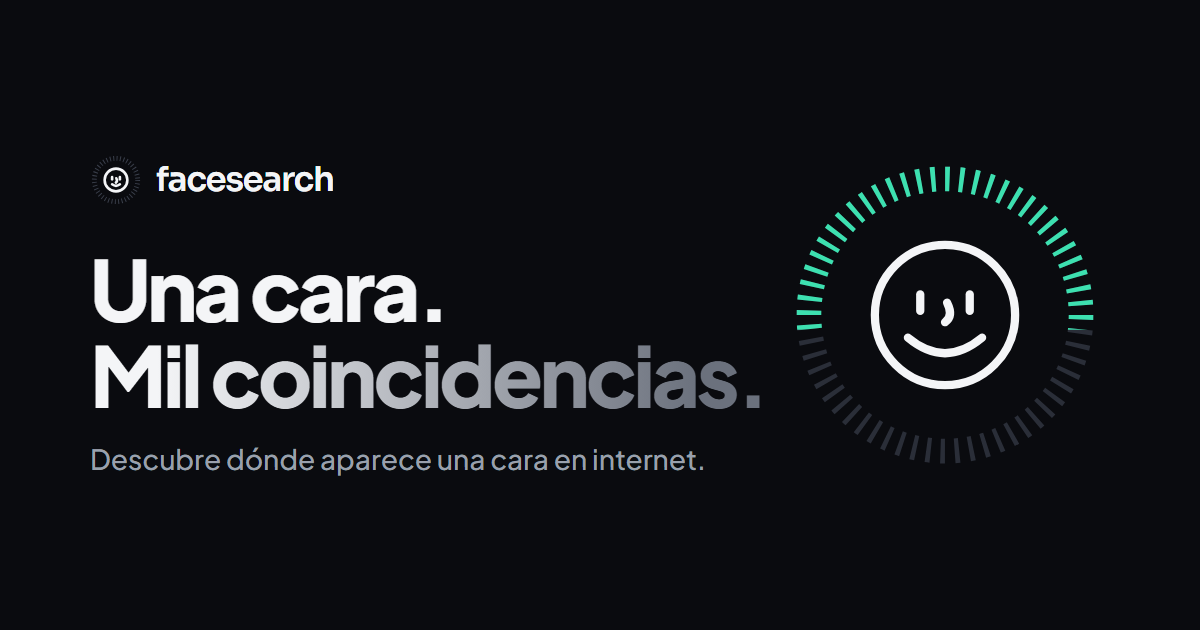
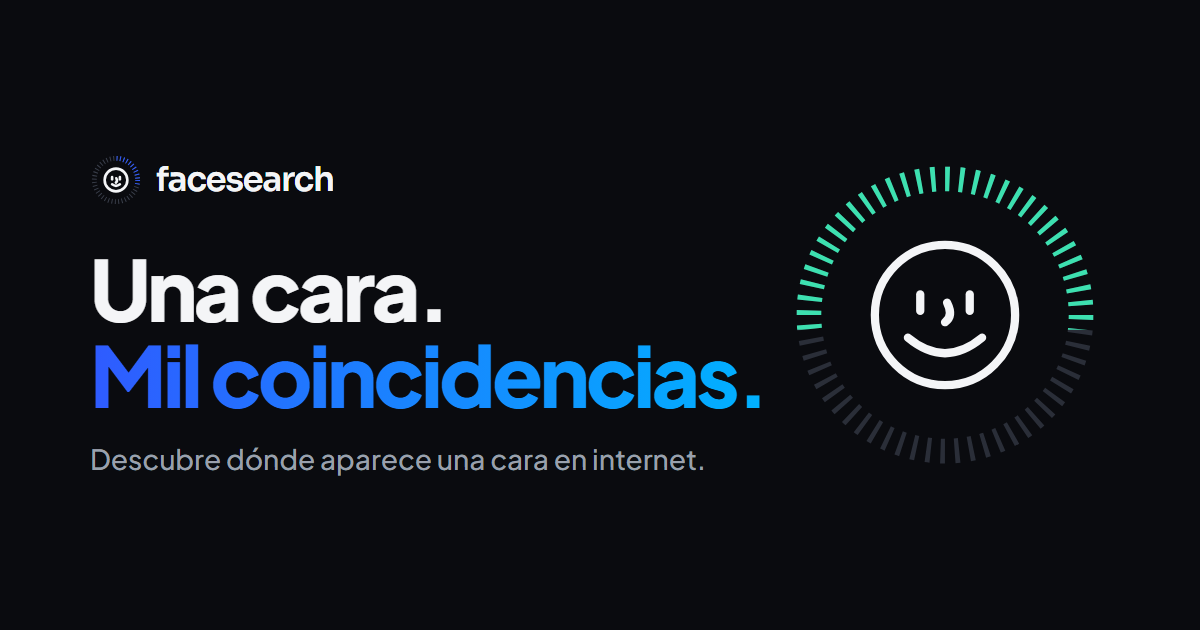
feat: electric blue brand accent (green kept only for face scanning)

Changed region(s): [[0.0617, 0.5429, 0.6475, 0.6635]]

diff --git a/index.html b/index.html
@@ -13,32 +13,32 @@
 <meta property="og:image" content="https://bralexmir95.github.io/facesearch-camara-demo/og.png">
 <meta property="og:image:width" content="1200"><meta property="og:image:height" content="630">
 <meta name="twitter:card" content="summary_large_image">
-<meta name="theme-color" content="#0B0C10">
+<meta name="theme-color" content="#2F5BFF">
 <link rel="icon" href="favicon.svg" type="image/svg+xml">
 <link rel="preconnect" href="https://fonts.googleapis.com">
 <link rel="preconnect" href="https://fonts.gstatic.com" crossorigin>
 <link href="https://fonts.googleapis.com/css2?family=Plus+Jakarta+Sans:wght@400;500;600;700;800&family=Sora:wght@600;700&display=swap" rel="stylesheet">
 <style>
-:root{--bg:#F6F7F9;--surface:#FFFFFF;--surface2:#F0F1F4;--border:#E5E7EB;--text:#0B0C10;--muted:#5B616E;--btn:#0B0C10;--btnText:#FFFFFF;--hl:#9AA0AC;--mint:#19C99A;--mintText:#047857;--mintTint:#E6F8F1;--mintBorder:#BDEFD9;--mintHead:#0E9F76;--tick:#DADDE3;--drop:#D5D9E0;--band:#0B0C10;--scrim:rgba(11,12,16,.45);--shadow:0 1px 2px rgba(11,12,16,.04),0 12px 40px rgba(11,12,16,.06)}
-:root[data-theme="dark"]{--bg:#0A0B0F;--surface:#13151B;--surface2:#1A1D25;--border:#262A33;--text:#F4F5F7;--muted:#9AA0AC;--btn:#F4F5F7;--btnText:#0A0B0F;--hl:#6B717D;--mint:#3DE0B0;--mintText:#3DE0B0;--mintTint:#10261F;--mintBorder:#1C4A3C;--mintHead:#3DE0B0;--tick:#2A2E38;--drop:#2E323C;--band:#1A1D25;--scrim:rgba(0,0,0,.65);--shadow:0 12px 40px rgba(0,0,0,.45)}
+:root{--bg:#F6F7F9;--surface:#FFFFFF;--surface2:#F0F1F4;--border:#E5E7EB;--text:#0B0C10;--muted:#5B616E;--btn:#0B0C10;--btnText:#FFFFFF;--hl:#9AA0AC;--acc:#2F5BFF;--acc2:#00B2FF;--accText:#FFFFFF;--accSoft:#E8EEFF;--accInk:#1E44E0;--mint:#19C99A;--mintText:#047857;--mintTint:#E6F8F1;--mintBorder:#BDEFD9;--mintHead:#0E9F76;--tick:#DADDE3;--drop:#D5D9E0;--band:#0B0C10;--scrim:rgba(11,12,16,.45);--shadow:0 1px 2px rgba(11,12,16,.04),0 12px 40px rgba(11,12,16,.06)}
+:root[data-theme="dark"]{--bg:#0A0B0F;--surface:#13151B;--surface2:#1A1D25;--border:#262A33;--text:#F4F5F7;--muted:#9AA0AC;--btn:#F4F5F7;--btnText:#0A0B0F;--hl:#6B717D;--acc:#2F5BFF;--acc2:#00B2FF;--accText:#FFFFFF;--accSoft:#141C3A;--accInk:#8FA9FF;--mint:#3DE0B0;--mintText:#3DE0B0;--mintTint:#10261F;--mintBorder:#1C4A3C;--mintHead:#3DE0B0;--tick:#2A2E38;--drop:#2E323C;--band:#1A1D25;--scrim:rgba(0,0,0,.65);--shadow:0 12px 40px rgba(0,0,0,.45)}
 *{box-sizing:border-box}
 html{scroll-behavior:smooth}
 body{margin:0;background:var(--bg);color:var(--text);font-family:'Plus Jakarta Sans',system-ui,sans-serif;-webkit-font-smoothing:antialiased}
-a{color:var(--text);text-decoration:none}a:hover{color:var(--muted)}
+a{color:var(--text);text-decoration:none}a:hover{color:var(--accInk)}
 button{font-family:inherit}
-:focus-visible{outline:3px solid var(--text);outline-offset:2px}
+:focus-visible{outline:3px solid var(--acc);outline-offset:2px}
 .wrap{max-width:1180px;margin:0 auto;padding-left:24px;padding-right:24px}
 .hidden{display:none!important}
 .sr{position:absolute;width:1px;height:1px;overflow:hidden;clip:rect(0 0 0 0);white-space:nowrap}
-.proto{background:var(--surface2);color:var(--muted);font-size:13px;font-weight:600;text-align:center;padding:8px 16px}
+.proto{background:var(--accSoft);color:var(--accInk);font-size:13px;font-weight:600;text-align:center;padding:8px 16px}
 .b1,.b2{height:48px;padding:0 20px;border-radius:14px;font:700 15px 'Plus Jakarta Sans',sans-serif;display:inline-flex;align-items:center;justify-content:center;gap:8px;cursor:pointer;text-decoration:none;white-space:nowrap}
-.b1{border:0;background:var(--btn);color:var(--btnText)}.b1:hover{color:var(--btnText);opacity:.9}
+.b1{border:0;background:var(--acc);color:var(--accText)}.b1:hover{color:var(--accText);filter:brightness(1.08)}
 .b2{border:1px solid var(--border);background:var(--surface);color:var(--text);font-weight:600}
 .icon-btn{width:44px;height:44px;border:1px solid var(--border);border-radius:12px;background:var(--surface);color:var(--text);display:inline-flex;align-items:center;justify-content:center;cursor:pointer}
 .muted{color:var(--muted)}
 .logo{display:flex;align-items:center;gap:10px}
 .logo span{font-family:'Sora',sans-serif;font-size:21px;font-weight:600;letter-spacing:-.04em}
-.lt{stroke:var(--tick)}.lm{stroke:var(--mint)}.lx{stroke:var(--text)}
+.lt{stroke:var(--tick)}.lm{stroke:var(--mint)}.lx{stroke:var(--text)}.la{stroke:var(--acc)}
 
 /* Cabecera */
 header.top{background:var(--surface);border-bottom:1px solid var(--border);position:sticky;top:0;z-index:20}
@@ -56,12 +56,12 @@ nav.main a:hover{color:var(--text);background:var(--surface2)}
 /* Titular */
 .hero{padding-top:64px;display:flex;flex-direction:column;align-items:center;text-align:center;gap:18px}
 .hero h1{margin:0;font-size:clamp(40px,6vw,72px);line-height:1.04;font-weight:800;letter-spacing:-.04em}
-.hero h1 .h1b{background:linear-gradient(90deg,var(--text) 10%,var(--hl) 90%);-webkit-background-clip:text;background-clip:text;color:transparent}
+.hero h1 .h1b{background:linear-gradient(90deg,var(--acc),var(--acc2));-webkit-background-clip:text;background-clip:text;color:transparent}
 .hero p{margin:0;max-width:600px;font-size:18px;line-height:1.55;color:var(--muted)}
 .chips{display:flex;flex-wrap:wrap;justify-content:center;gap:8px;margin-top:4px}
 .chip{padding:8px 14px;border-radius:999px;background:var(--surface);border:1px solid var(--border);font-size:13px;font-weight:600;color:var(--muted)}
-.chip.g{background:var(--btn);border-color:var(--btn);color:var(--btnText);font-weight:700}
-.chip.g:hover{color:var(--btnText);opacity:.9}
+.chip.g{background:var(--accSoft);border-color:var(--accSoft);color:var(--accInk);font-weight:700}
+.chip.g:hover{color:var(--accInk);border-color:var(--acc)}
 
 /* Buscador + panel */
 .search{padding-top:40px;padding-bottom:72px;display:grid;grid-template-columns:repeat(auto-fit,minmax(min(340px,100%),1fr));gap:24px}
@@ -100,7 +100,7 @@ nav.main a:hover{color:var(--text);background:var(--surface2)}
 .tabs button[aria-selected="true"]{background:var(--surface);color:var(--text);font-weight:700;box-shadow:0 1px 3px rgba(0,0,0,.12)}
 .list{display:flex;flex-direction:column;gap:10px}
 .step{padding:16px;border-radius:16px;background:var(--surface2);display:flex;gap:14px;align-items:flex-start;text-align:left}
-.step b{flex:none;width:34px;height:34px;border-radius:10px;background:var(--btn);color:var(--btnText);display:flex;align-items:center;justify-content:center}
+.step b{flex:none;width:34px;height:34px;border-radius:10px;background:var(--acc);color:var(--accText);display:flex;align-items:center;justify-content:center}
 .step strong{display:block;font-size:16px}.step span{font-size:14px;line-height:1.5;color:var(--muted)}
 .recent{padding:12px;border-radius:16px;border:1px solid var(--border);display:flex;align-items:center;gap:14px;text-align:left}
 .recent .av{flex:none;width:52px;height:52px;border-radius:14px;background:var(--surface2);display:flex;align-items:center;justify-content:center}
@@ -108,7 +108,7 @@ nav.main a:hover{color:var(--text);background:var(--surface2)}
 .recent .when{font-size:13px;color:var(--muted)}
 .recent .m{flex:none;padding:5px 10px;border-radius:999px;background:var(--surface2);color:var(--text);font-size:12px;font-weight:700}
 .recent button{flex:none;width:40px;height:40px;border:0;border-radius:12px;background:var(--surface2);color:var(--text);display:flex;align-items:center;justify-content:center;cursor:pointer}
-.gnote{margin-top:auto;padding:14px 16px;border-radius:16px;background:var(--surface2);color:var(--text);display:flex;align-items:center;gap:12px;font-size:14px;font-weight:600}
+.gnote{margin-top:auto;padding:14px 16px;border-radius:16px;background:var(--accSoft);color:var(--accInk);display:flex;align-items:center;gap:12px;font-size:14px;font-weight:600}
 .gnote svg{flex:none}
 
 /* Secciones */
@@ -117,7 +117,7 @@ section.band{background:var(--surface);border-top:1px solid var(--border);border
 .sec h2{margin:0;font-size:32px;font-weight:800;letter-spacing:-.03em}
 .center{display:flex;flex-direction:column;align-items:center;gap:10px;text-align:center}
 .center p{margin:0;max-width:580px;font-size:16px;line-height:1.55;color:var(--muted)}
-.more{font-size:14px;font-weight:700;color:var(--text);text-decoration:underline;text-underline-offset:4px}
+.more{font-size:14px;font-weight:700;color:var(--accInk);text-decoration:underline;text-underline-offset:4px}
 .cols{display:grid;grid-template-columns:repeat(auto-fit,minmax(min(240px,100%),1fr));gap:18px}
 .box{padding:24px;border-radius:20px;display:flex;flex-direction:column;gap:8px}
 .box strong{font-size:17px}.box span{font-size:14px;line-height:1.55;color:var(--muted)}
@@ -136,10 +136,10 @@ section.band{background:var(--surface);border-top:1px solid var(--border);border
 .price p{margin:10px 0 0;font-size:15px;color:#C3C7D0}
 .cur{margin-top:14px;display:flex;gap:6px}
 .cur button{height:36px;padding:0 14px;border:1px solid #3A3F4B;border-radius:999px;background:transparent;color:#C3C7D0;font-weight:600;font-size:13px;cursor:pointer}
-.cur button[aria-checked="true"]{border-color:#F4F5F7;background:#F4F5F7;color:#0A0B0F;font-weight:700}
+.cur button[aria-checked="true"]{border-color:var(--acc);background:var(--acc);color:#FFFFFF;font-weight:700}
 .amount{display:flex;align-items:center;gap:20px;flex-wrap:wrap}
 .amount b{font-size:44px;font-weight:800;letter-spacing:-.03em}
-.amount a{height:48px;padding:0 22px;border-radius:14px;background:#F4F5F7;color:#0A0B0F;font-size:15px;font-weight:700;display:inline-flex;align-items:center}
+.amount a{height:48px;padding:0 22px;border-radius:14px;background:var(--acc);color:#FFFFFF;font-size:15px;font-weight:700;display:inline-flex;align-items:center}
 @media (max-width:600px){.price{padding:28px}}
 
 /* Pie */
@@ -162,8 +162,8 @@ dialog::backdrop{background:var(--scrim)}
 .opts.c3{grid-template-columns:repeat(3,1fr)}
 .opts button{height:46px;padding:0 14px;border:1px solid var(--border);border-radius:12px;background:var(--surface);color:var(--text);font-weight:600;font-size:14px;display:flex;align-items:center;justify-content:space-between;cursor:pointer}
 .opts.c3 button{justify-content:center}
-.opts button[aria-pressed="true"]{border-color:var(--btn);background:var(--btn);color:var(--btnText);font-weight:700}
-.opts button[aria-pressed="true"] small{color:var(--btnText);opacity:.7}
+.opts button[aria-pressed="true"]{border-color:var(--acc);background:var(--acc);color:#FFFFFF;font-weight:700}
+.opts button[aria-pressed="true"] small{color:#FFFFFF;opacity:.75}
 .opts small{color:var(--muted);font-size:12px}
 #drawer{position:fixed;inset:0;z-index:40}
 #drawer .scrim{position:absolute;inset:0;background:var(--scrim);border:0;padding:0;width:100%;cursor:pointer}
@@ -171,7 +171,7 @@ dialog::backdrop{background:var(--scrim)}
 @keyframes slide{from{transform:translateX(30px);opacity:0}}
 #drawer nav{display:flex;flex-direction:column;gap:2px}
 #drawer nav a,#drawer nav button{height:48px;padding:0 12px;border:0;border-radius:12px;background:transparent;color:var(--text);font-size:15px;font-weight:600;display:flex;align-items:center;gap:12px;cursor:pointer;text-align:left}
-#drawer nav a:hover,#drawer nav button:hover{background:var(--surface2);color:var(--text)}
+#drawer nav a:hover,#drawer nav button:hover{background:var(--accSoft);color:var(--accInk)}
 .sep{height:1px;background:var(--border)}
 
 /* Cámara a pantalla completa */
@@ -215,7 +215,7 @@ dialog::backdrop{background:var(--scrim)}
 /* Cuenta */
 .acc-top{display:flex;flex-wrap:wrap;align-items:center;justify-content:space-between;gap:18px;padding:22px;border-radius:24px;background:var(--surface);border:1px solid var(--border)}
 .acc-user{display:flex;align-items:center;gap:14px}
-.acc-av{width:52px;height:52px;border-radius:50%;background:var(--btn);color:var(--btnText);display:flex;align-items:center;justify-content:center;font-weight:800;font-size:20px}
+.acc-av{width:52px;height:52px;border-radius:50%;background:var(--acc);color:var(--accText);display:flex;align-items:center;justify-content:center;font-weight:800;font-size:20px}
 .acc-user strong{display:block;font-size:18px}.acc-user div span{font-size:14px;color:var(--muted)}
 .acc-bal{display:flex;align-items:center;gap:12px;padding:10px 16px 10px 10px;border-radius:999px;background:var(--surface2)}
 .acc-bal b{font-size:30px;font-weight:800;letter-spacing:-.03em;line-height:1}
@@ -230,19 +230,20 @@ dialog::backdrop{background:var(--scrim)}
 .coupon input::placeholder{color:#9AA0AC}
 .coupon button{height:46px;padding:0 18px;border:0;border-radius:12px;background:#F4F5F7;color:#0A0B0F;font-weight:700;cursor:pointer}
 .save{align-self:flex-start;padding:3px 8px;border-radius:999px;background:rgba(255,255,255,.12);color:#F4F5F7;font-size:12px;font-weight:700}
-.pack.gift{border-color:#F4F5F7}
-.gift-note{margin:14px 0 16px!important;padding:12px 14px;border-radius:12px;background:rgba(255,255,255,.08);color:#F4F5F7;font-size:14px;font-weight:600}
+.pack.gift{border-color:var(--acc2)}
+.gift-note{margin:14px 0 16px!important;padding:12px 14px;border-radius:12px;background:rgba(47,91,255,.22);color:#C9D6FF;font-size:14px;font-weight:600}
 .empty{display:flex;align-items:center;gap:12px;color:var(--muted);font-size:15px}
 /* Venta: CTA principal, botón fijo en móvil, confianza, resultados */
-.cta{height:44px;padding:0 18px;border-radius:12px;background:var(--btn);color:var(--btnText);font-size:14px;font-weight:700;display:inline-flex;align-items:center;gap:8px}
-.cta:hover{color:var(--btnText);opacity:.9}
+.cta{height:44px;padding:0 18px;border-radius:12px;background:var(--acc);color:var(--accText);font-size:14px;font-weight:700;display:inline-flex;align-items:center;gap:8px}
+.cta:hover{color:var(--accText);filter:brightness(1.08)}
 .signin.ghost{background:var(--surface);color:var(--text);border:1px solid var(--border)}
 .signin.ghost:hover{color:var(--text)}
 @media (max-width:1100px){nav.main{display:none}}
-.mcta{position:fixed;left:16px;right:88px;bottom:max(20px,env(safe-area-inset-bottom));z-index:30;height:58px;border-radius:999px;background:var(--btn);color:var(--btnText);font-size:16px;font-weight:800;display:none;align-items:center;justify-content:center;gap:10px;box-shadow:0 10px 30px rgba(0,0,0,.25);opacity:0;transform:translateY(18px);pointer-events:none;transition:opacity .25s,transform .3s}
+.mcta{position:fixed;left:16px;right:88px;bottom:max(20px,env(safe-area-inset-bottom));z-index:30;height:58px;border-radius:999px;background:var(--acc);color:var(--accText);font-size:16px;font-weight:800;display:none;align-items:center;justify-content:center;gap:10px;box-shadow:0 10px 30px rgba(0,0,0,.25);opacity:0;transform:translateY(18px);pointer-events:none;transition:opacity .25s,transform .3s}
 .mcta.show{opacity:1;transform:none;pointer-events:auto}
-.mcta:hover{color:var(--btnText)}
+.mcta:hover{color:var(--accText)}
 @media (max-width:900px){.mcta{display:flex}}
+.trust svg{color:var(--acc)}
 .trust{margin:0;display:flex;align-items:center;justify-content:center;gap:6px;font-size:13px;font-weight:600;color:var(--muted)}
 .tile .mt{position:absolute;left:6px;right:6px;bottom:6px;z-index:1;display:flex;flex-direction:column;align-items:flex-start;gap:2px}
 .tile .mt b{padding:2px 7px;border-radius:999px;background:var(--mint);color:#0A0B0F;font-size:11px}
@@ -257,15 +258,15 @@ dialog::backdrop{background:var(--scrim)}
 /* Datos clave */
 .facts{display:grid;grid-template-columns:repeat(auto-fit,minmax(min(220px,100%),1fr));gap:14px}
 .fact{padding:20px;border-radius:20px;background:var(--surface);border:1px solid var(--border);display:flex;flex-direction:column;gap:6px;color:var(--text)}
-a.fact:hover{border-color:var(--text);color:var(--text)}
-.fact .fi{width:44px;height:44px;margin-bottom:6px;border-radius:14px;background:var(--surface2);color:var(--text);display:flex;align-items:center;justify-content:center}
+a.fact:hover{border-color:var(--acc);color:var(--text)}
+.fact .fi{width:44px;height:44px;margin-bottom:6px;border-radius:14px;background:var(--accSoft);color:var(--accInk);display:flex;align-items:center;justify-content:center}
 .fact strong{font-size:16px}.fact span:last-child{font-size:14px;color:var(--muted)}
 /* Botón flotante para subir */
-.totop{position:fixed;right:max(20px,env(safe-area-inset-right));bottom:max(20px,env(safe-area-inset-bottom));z-index:30;width:58px;height:58px;padding:0;border:0;border-radius:50%;background:var(--btn);color:var(--btnText);display:flex;align-items:center;justify-content:center;cursor:pointer;box-shadow:0 10px 30px rgba(0,0,0,.25);opacity:0;transform:translateY(18px) scale(.85);pointer-events:none;transition:opacity .25s,transform .3s cubic-bezier(.2,.9,.3,1.3)}
+.totop{background:var(--acc)!important;color:#FFFFFF!important;position:fixed;right:max(20px,env(safe-area-inset-right));bottom:max(20px,env(safe-area-inset-bottom));z-index:30;width:58px;height:58px;padding:0;border:0;border-radius:50%;background:var(--btn);color:var(--btnText);display:flex;align-items:center;justify-content:center;cursor:pointer;box-shadow:0 10px 30px rgba(0,0,0,.25);opacity:0;transform:translateY(18px) scale(.85);pointer-events:none;transition:opacity .25s,transform .3s cubic-bezier(.2,.9,.3,1.3)}
 .totop.show{opacity:1;transform:none;pointer-events:auto}
 .totop:hover{transform:translateY(-2px)}
 .totop svg.prog2{position:absolute;inset:0;transform:rotate(-90deg)}
-.totop .trk{stroke:rgba(127,127,127,.35)}.totop .bar{stroke:var(--btnText);transition:stroke-dashoffset .1s linear}
+.totop .trk{stroke:rgba(127,127,127,.35)}.totop .bar{stroke:#FFFFFF;transition:stroke-dashoffset .1s linear}
 /* País y moneda */
 .region-row{display:flex;flex-wrap:wrap;align-items:center;gap:10px;margin:14px 0 16px}
 .region-row label{font-size:13px;font-weight:600;color:#9AA0AC}
@@ -303,7 +304,7 @@ dialog select{width:100%;height:46px;padding:0 12px;border:1px solid var(--borde
 .pack .per{margin-bottom:8px}
 .pack .pp{font-size:20px;font-weight:800}
 .pack .per{font-size:12px;color:#9AA0AC}
-.pack a{margin-top:auto;height:40px;border-radius:12px;background:#F4F5F7;color:#0A0B0F;font-weight:700;font-size:14px;display:flex;align-items:center;justify-content:center}
+.pack a{margin-top:auto;height:40px;border-radius:12px;background:var(--acc);color:#FFFFFF;font-weight:700;font-size:14px;display:flex;align-items:center;justify-content:center}
 .pnote{margin:14px 0 0;font-size:13px;color:#9AA0AC}
 .deep{display:flex;flex-wrap:wrap;align-items:center;justify-content:space-between;gap:20px}
 .deep p{margin:0;max-width:560px;font-size:15px;line-height:1.6;color:#C3C7D0}
@@ -325,7 +326,7 @@ dialog select{width:100%;height:46px;padding:0 12px;border:1px solid var(--borde
 <header class="top">
   <div class="wrap">
     <a class="logo" href="#top" aria-label="FaceSearch">
-      <svg width="36" height="36" viewBox="0 0 48 48" aria-hidden="true"><defs><clipPath id="hdrArc"><path d="M24 24L24 0H48V30Z"/></clipPath></defs><circle class="lt" cx="24" cy="24" r="20" fill="none" stroke-width="4.5" stroke-dasharray="0.9 2.24"/><circle class="lx" cx="24" cy="24" r="20" fill="none" stroke-width="4.5" stroke-dasharray="0.9 2.24" clip-path="url(#hdrArc)"/><g class="lx" fill="none" stroke-width="2.4" stroke-linecap="round"><circle cx="24" cy="24" r="10.5"/><path d="M20.4 21.2v2.2"/><path d="M27.6 21.2v2.2"/><path d="M24.3 22.4c.9 1.7.9 3.1-.4 4"/><path d="M20.4 28q3.6 2.8 7.2 0"/></g></svg>
+      <svg width="36" height="36" viewBox="0 0 48 48" aria-hidden="true"><defs><clipPath id="hdrArc"><path d="M24 24L24 0H48V30Z"/></clipPath></defs><circle class="lt" cx="24" cy="24" r="20" fill="none" stroke-width="4.5" stroke-dasharray="0.9 2.24"/><circle class="la" cx="24" cy="24" r="20" fill="none" stroke-width="4.5" stroke-dasharray="0.9 2.24" clip-path="url(#hdrArc)"/><g class="lx" fill="none" stroke-width="2.4" stroke-linecap="round"><circle cx="24" cy="24" r="10.5"/><path d="M20.4 21.2v2.2"/><path d="M27.6 21.2v2.2"/><path d="M24.3 22.4c.9 1.7.9 3.1-.4 4"/><path d="M20.4 28q3.6 2.8 7.2 0"/></g></svg>
       <span>facesearch</span>
     </a>
     <nav class="main" aria-label="Principal">
